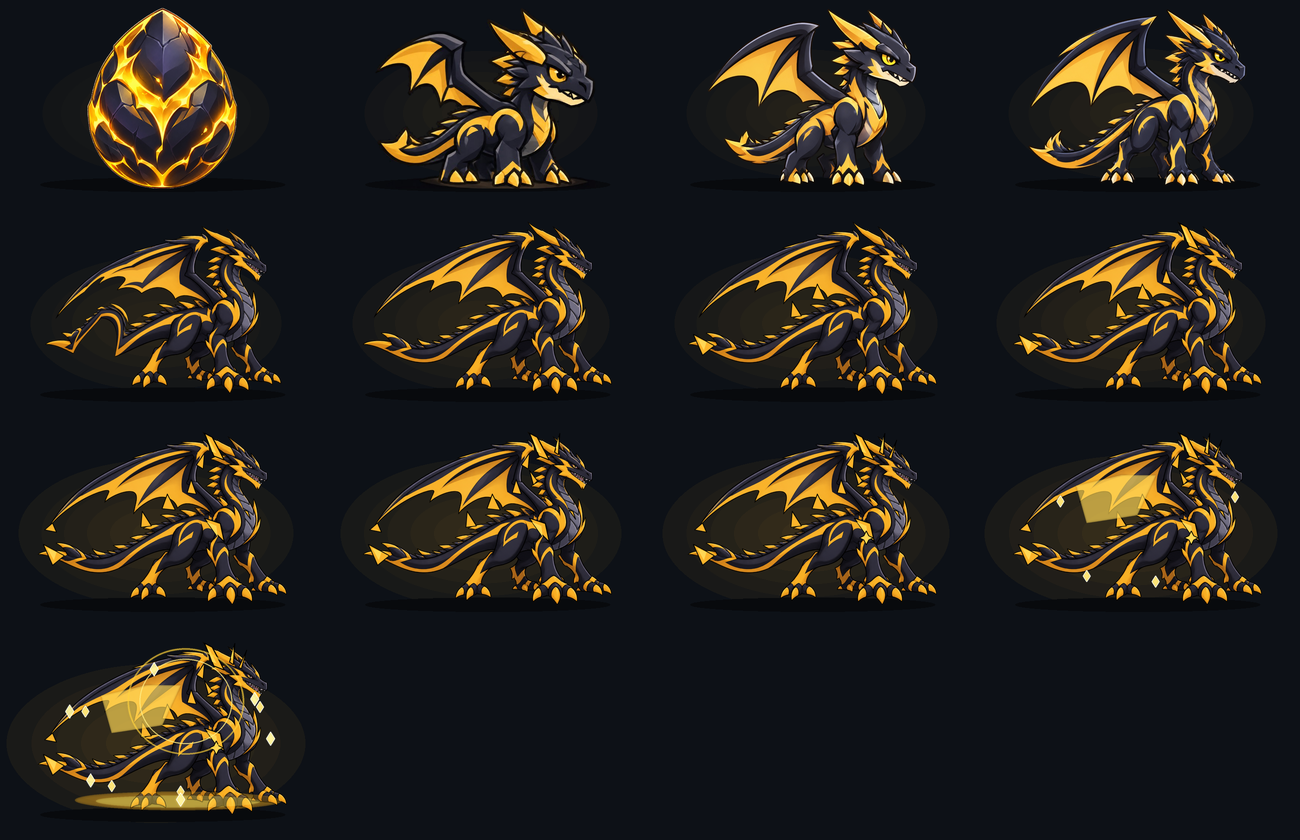
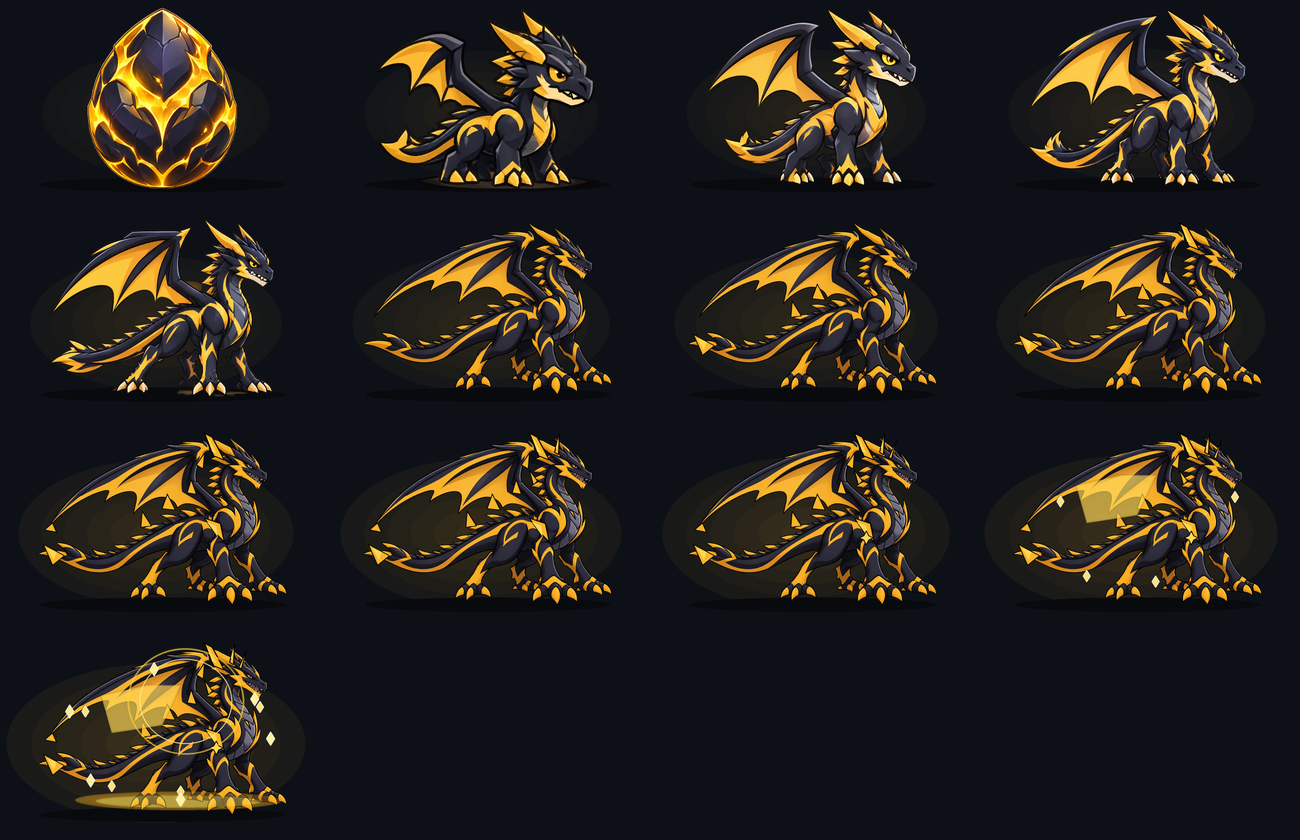
Update Stage 5 Adolescent with authentic high-res illustrated dragon & kinematics

Changed region(s): [[0.0308, 0.2476, 0.2154, 0.4952]]

diff --git a/drago/sprite_animator.py b/drago/sprite_animator.py
@@ -52,6 +52,8 @@ class SpriteAnimator:
             return (int(w * 0.825), int(h * 0.315))  # ~ (778, 252) for 944x801
         if '04_juvenile' in self.sprite_path or getattr(self.state, 'stage_level', 0) == 4:
             return (int(w * 0.821), int(h * 0.295))  # ~ (765, 224) for 933x760
+        if '05_adolescent' in self.sprite_path or getattr(self.state, 'stage_level', 0) == 5:
+            return (int(w * 0.836), int(h * 0.304))  # ~ (800, 231) for 957x760
         if '06_adult' in self.sprite_path or getattr(self.state, 'stage_level', 0) == 6:
             return (int(w * 0.806), int(h * 0.300))  # ~ (825, 205) for 1024x682
 
